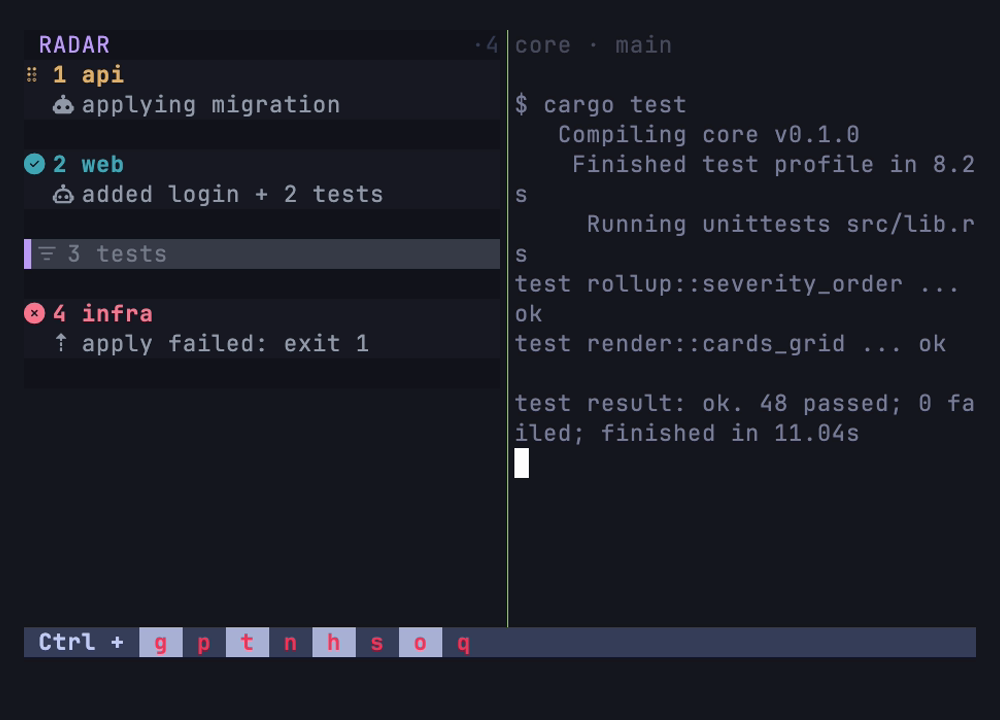
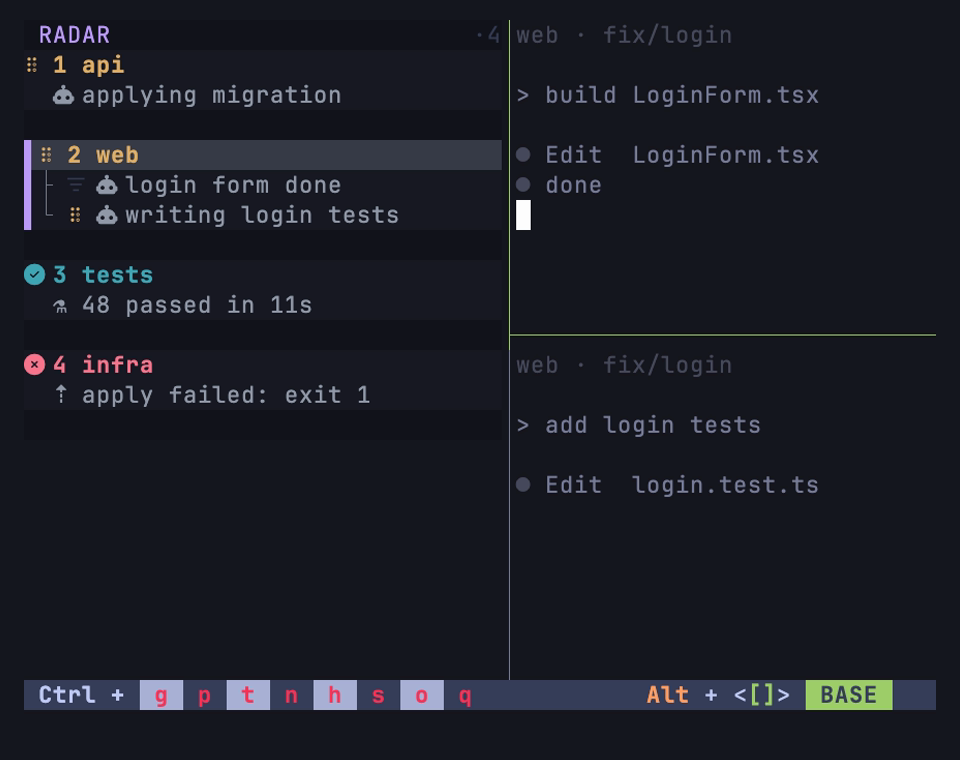
docs(demo): richer hero GIF — title card, multi-pane tab, tab-over, sign-off
Reworks the demo loop to read as a clear story and look polished:

- Title card opener (banner.sh) names the tool and pre-teaches the glyph
  legend before the rail appears.
- Focused tab is now a Claude agent (agent-style output), not a cargo build.
- `web` runs two Claude agents in one tab → the rail rolls them up as a
  ├/└ tree; the demo tabs over to it (Zellij tab mode, since vhs Alt keys
  don't reach Zellij).
- Closing beat opens a fresh tab (sidebar follows in; clean `$` prompt via
  demorc.sh) and signs off — recording stops before Zellij's quit screen.
- Launch happens off-camera (no long path typed); beats sync to on-screen
  text; gifsicle shrinks the result (~180K).

diff --git a/demo/README.md b/demo/README.md
@@ -6,8 +6,13 @@ agent**.
 
 The trick: zj-radar's only interface is the `zj_radar.status.v1` pipe broadcast,
 so [`agent.sh`](agent.sh) just *plays* a scripted status arc for its own pane.
-Four tabs each run a different arc; the rail animates the rest (the spinner and
+Each tab runs a different arc; the rail animates the rest (the spinner and
 elapsed clock advance on the plugin's own 1-second timer).
+
+The loop: a title card → a focused Claude agent works and then blocks on
+approval → the demo tabs over to a second tab running **two** Claude agents
+(rolled up in the rail as a `├`/`└` tree) → it closes by opening a fresh tab,
+showing the sidebar follows into every tab.
 
 ## Regenerate the assets
 
@@ -24,9 +29,9 @@ Outputs:
 
 | File | Beat |
 |------|------|
-| `docs/media/hero.gif` | The full ~15s loop |
-| `docs/media/needs-you.png` | An agent blocking on a permission prompt (`◆ needs you`) |
-| `docs/media/states.png` | Mixed `done` / `error` / `working` across tabs |
+| `docs/media/hero.gif` | The full loop |
+| `docs/media/needs-you.png` | The focused Claude agent blocking on a permission prompt |
+| `docs/media/states.png` | The multi-pane `web` tab + the `done`/`error`/`working` spread |
 
 ## Try it live (no recording)
 
@@ -43,10 +48,12 @@ zellij --config target/demo/config.kdl --layout target/demo/layout.kdl
 
 | File | What it is |
 |------|------------|
-| `agent.sh` | Broadcasts a timed status arc (`needs-you` / `done` / `tests` / `deploy-error`) for `$ZELLIJ_PANE_ID`. The `tests` arc also streams cargo-test output to fill the focused content pane. |
-| `layout.kdl` | Four tabs, each running an `agent.sh` arc; radar sidebar pinned left via a direct `file:` plugin path (inline `glyphs`/`density`/`naming`). Template — `__WASM__`/`__ROOT__` filled at record time. |
+| `agent.sh` | Broadcasts a timed status arc for `$ZELLIJ_PANE_ID`; the focused arcs also print agent-style output to fill the content pane. |
+| `banner.sh` | The intro title card (tool name + glyph legend) shown for the first ~3s. |
+| `demorc.sh` | A minimal bash rcfile giving the closing tab a clean `$ ` prompt instead of the recording host's shell config. |
+| `layout.kdl` | Tabs running `agent.sh` arcs (one with two panes → a roll-up tree); radar sidebar pinned left via a direct `file:` plugin path. Template — `__WASM__`/`__ROOT__` filled at record time. |
 | `config.kdl` | Zellij config: Tokyo Night theme (drives the rail's card surfaces). Template. |
-| `hero.tape` | The vhs script: launches the session and plays the status story. Template. |
+| `hero.tape` | The vhs script: title card → status story → tab-over → fresh-tab sign-off. Template. |
 | `record.sh` | Builds the wasm, pre-grants the plugin permission, strips inherited `ZELLIJ*` env, substitutes paths, runs vhs, optimizes the GIF. |
 
 ## How it stays reproducible
@@ -63,10 +70,11 @@ recording flaky:
 
 ## Tuning notes
 
-- **vhs has no mouse**, and its Alt-modifier keys don't reach Zellij reliably,
-  so the demo is purely status-driven — no tab switching. Click-to-switch and
-  the focus-clears-`done` behavior are described in the main README. (Live, you
-  can switch tabs with `Alt+a`/`w`/`e`/`r`, bound in `config.kdl`.)
+- **vhs has no mouse**, and its `Alt`-modifier keys don't reach Zellij reliably
+  — but `Ctrl` does, so tab navigation uses Zellij's tab mode (`Ctrl+t` then the
+  tab number / `n` for a new tab). Click-to-switch is described in the main
+  README. (Live, you can also switch tabs with `Alt+a`/`w`/`e`/`r`, bound in
+  `config.kdl`.)
 - **Timing is wall-clock.** The `Sleep`s in `hero.tape` and the `sleep`s in
   `agent.sh` share one clock, offset by the ~2–3s it takes the session to start
   and the agents to begin broadcasting. If a beat lands early/late, nudge the